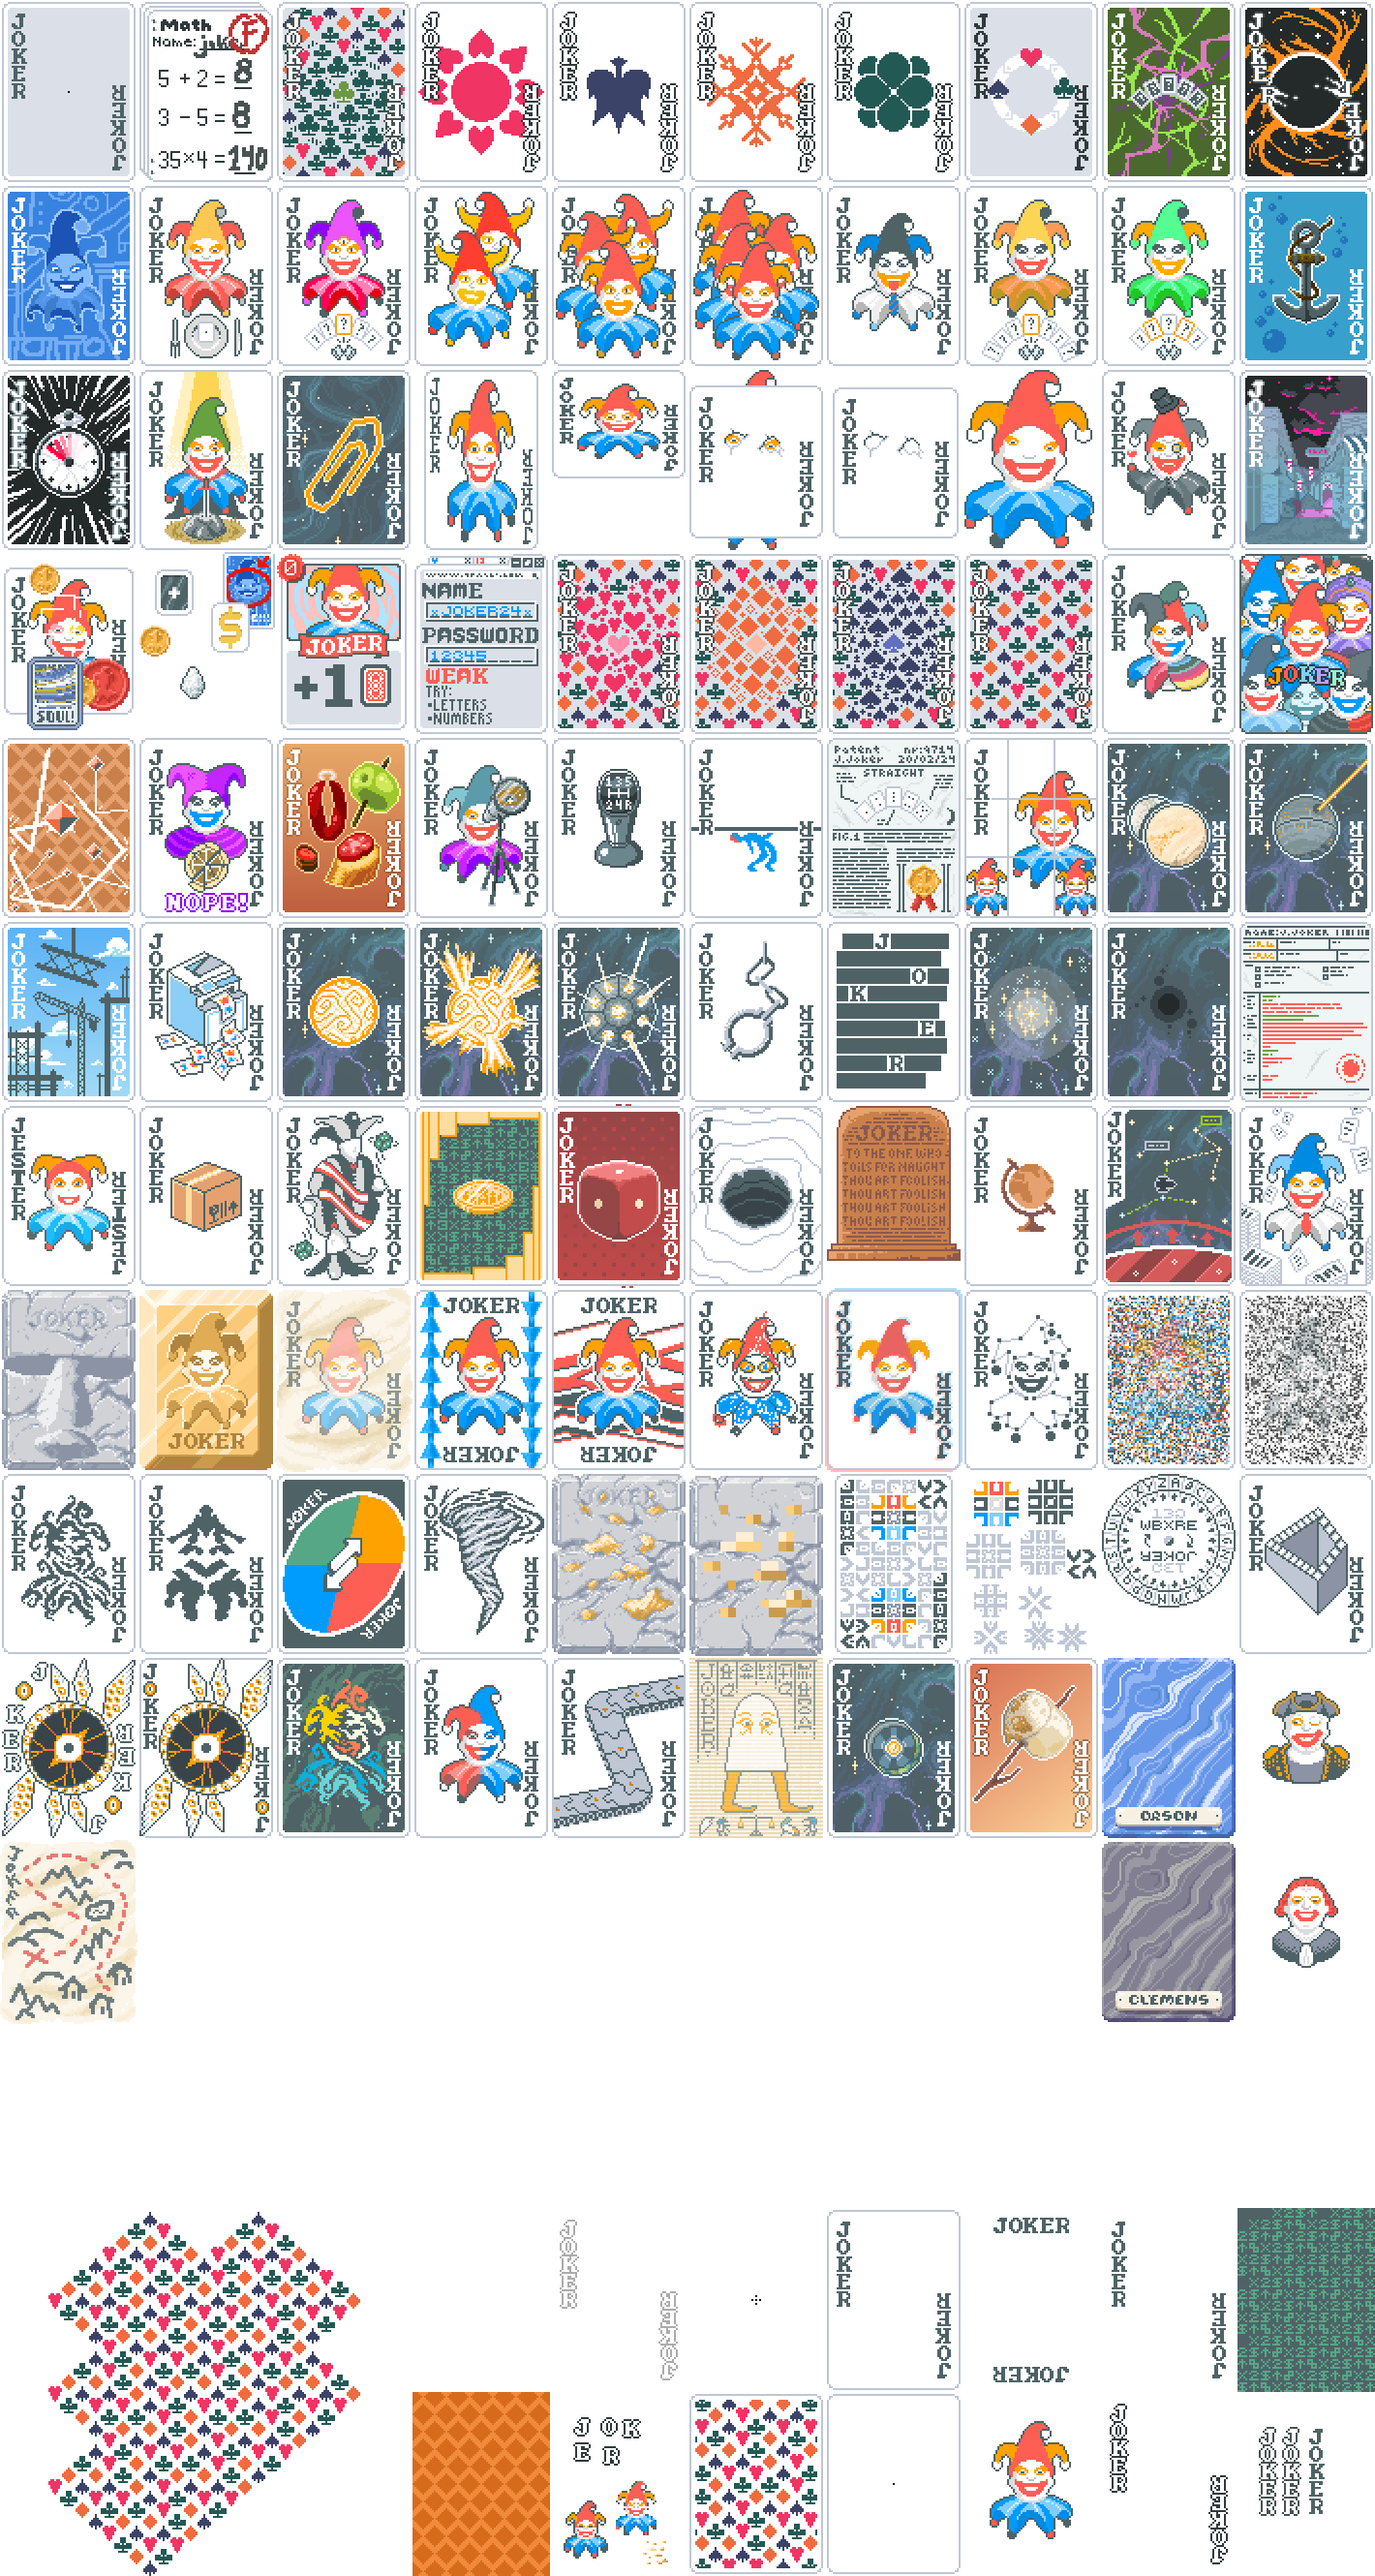
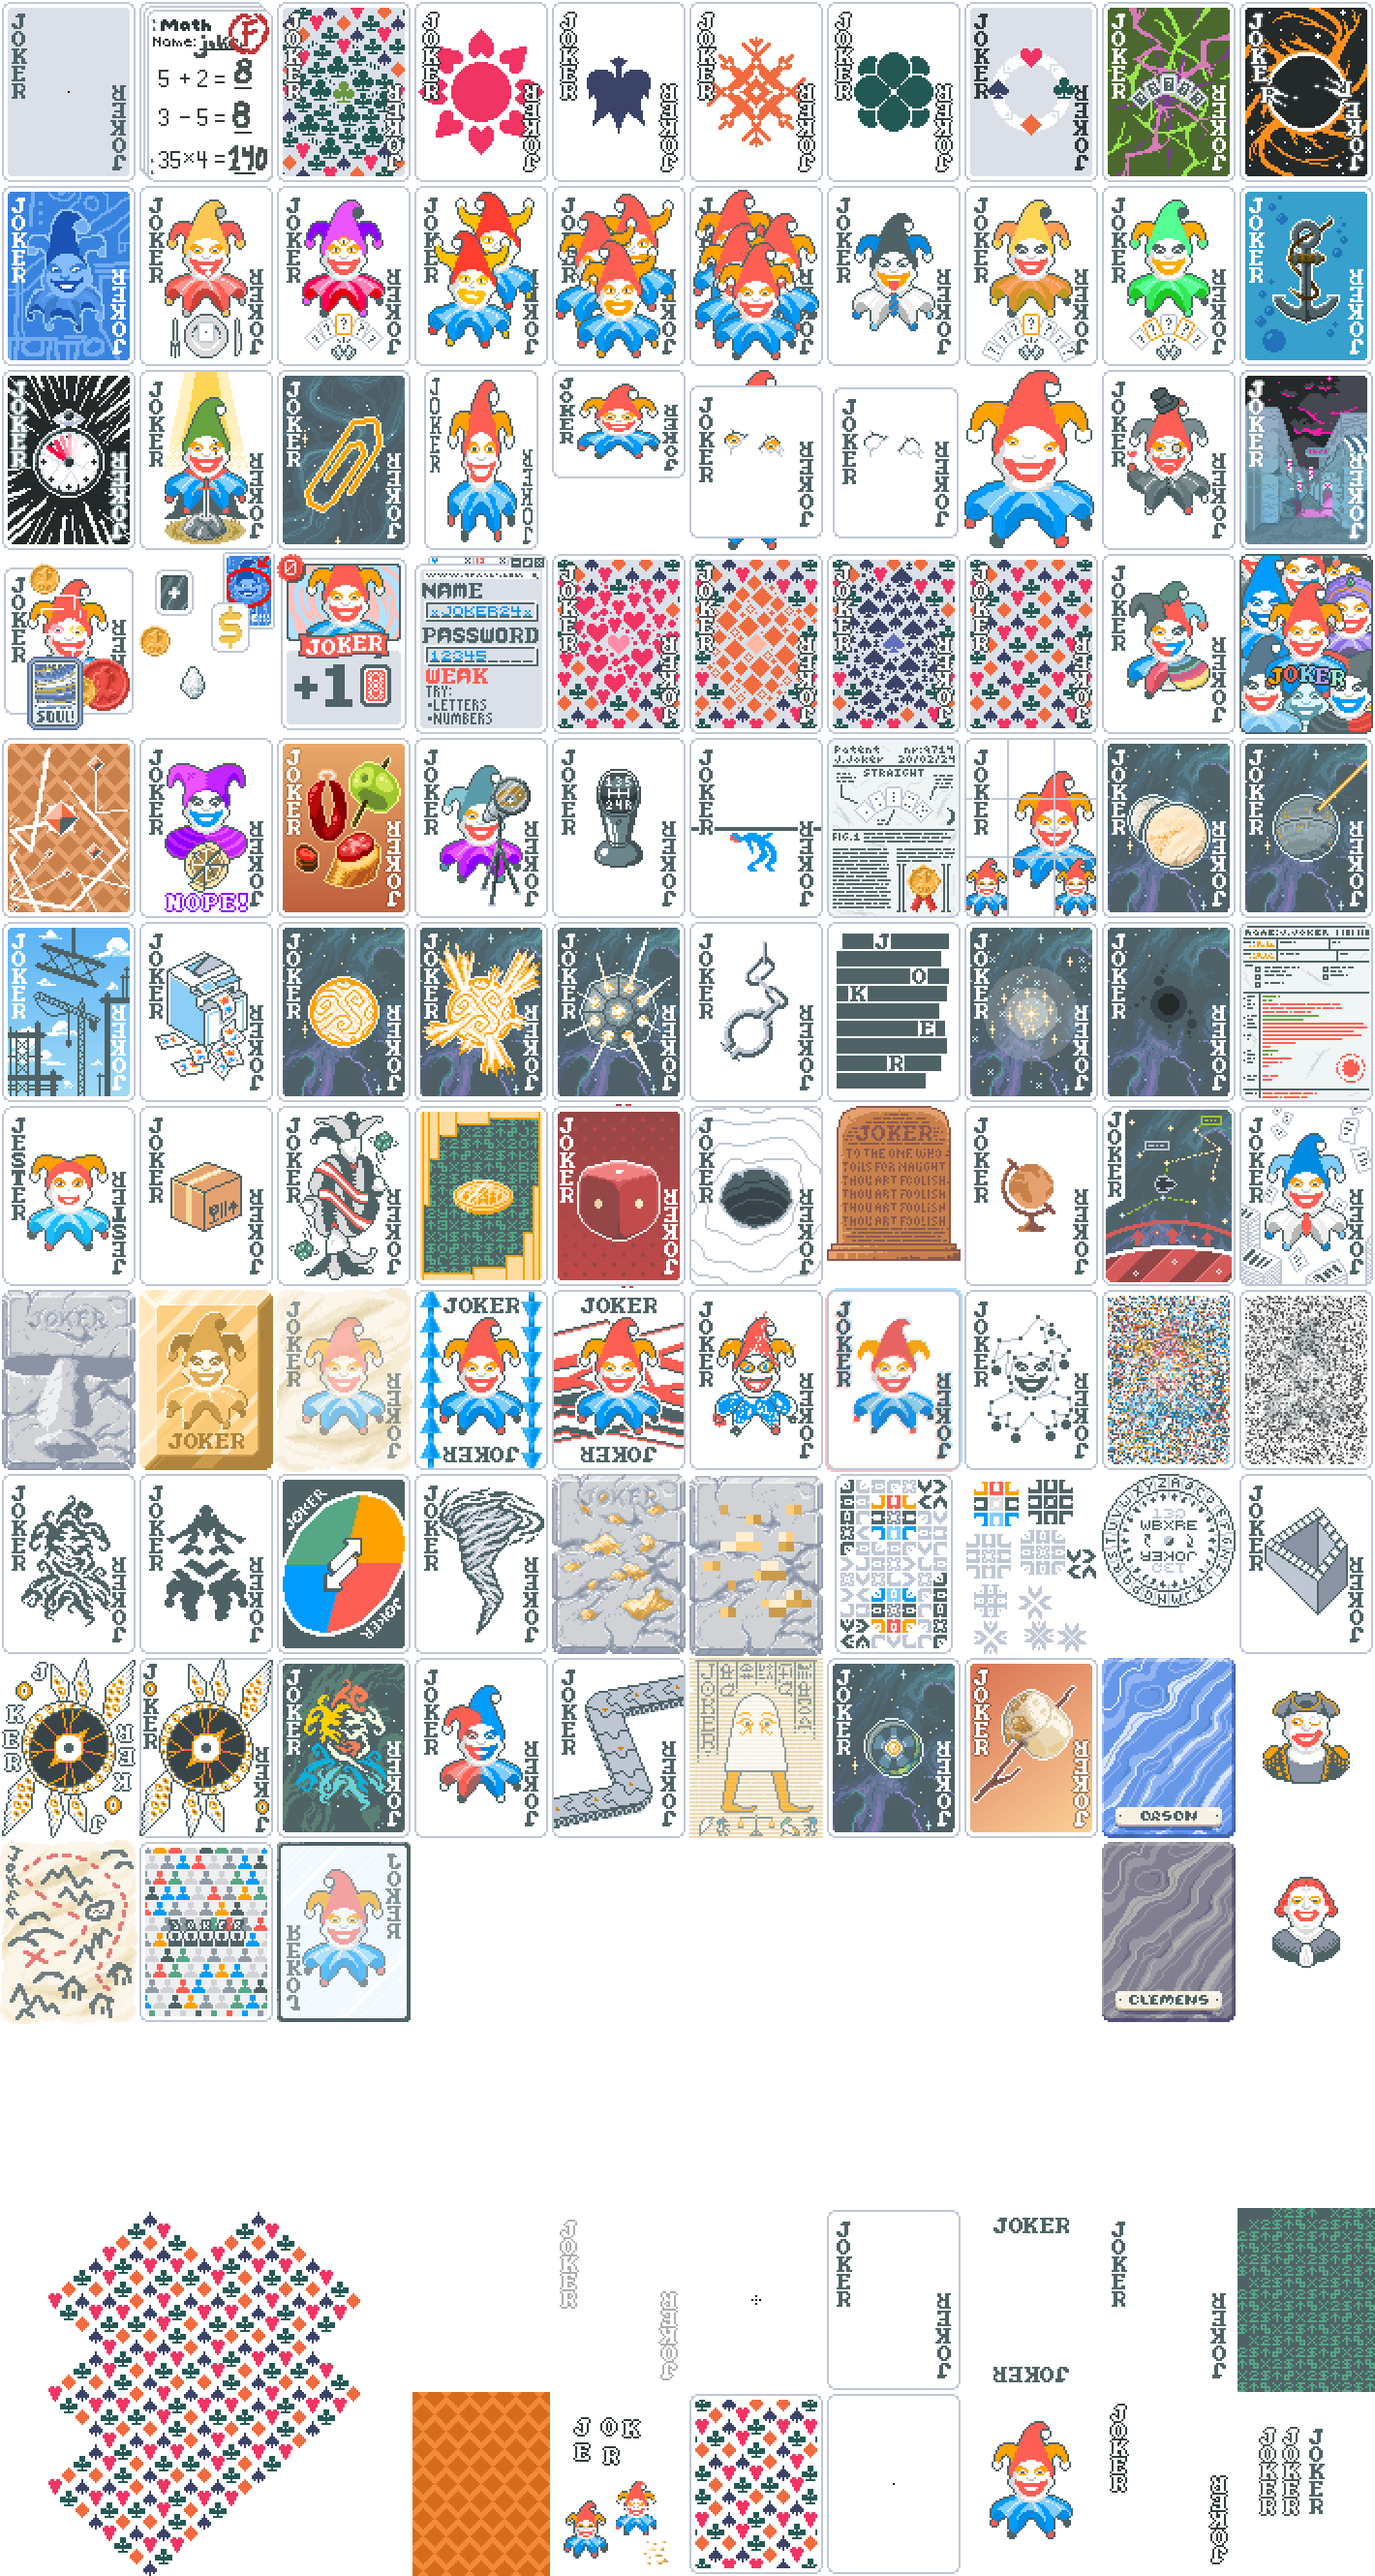
Add Audience

Changed region(s): [[0.093, 0.7177, 0.3099, 0.7801]]

diff --git a/web/addjokers.js b/web/addjokers.js
@@ -749,6 +749,14 @@ let jokers = [
     image_url: "img/j/treasure_map.png",
     rarity: "Common"
   },
+  {
+    name: "Audience",
+    text: [
+        "When scored, played cards give {C:mult}+1{} Mult for each remaining card in {C:attention}deck{} with same {C:attention}rank{}",
+    ],
+    image_url: "img/j/audience.png",
+    rarity: "Uncommon"
+  },
 
   // {
   //   name: "",
